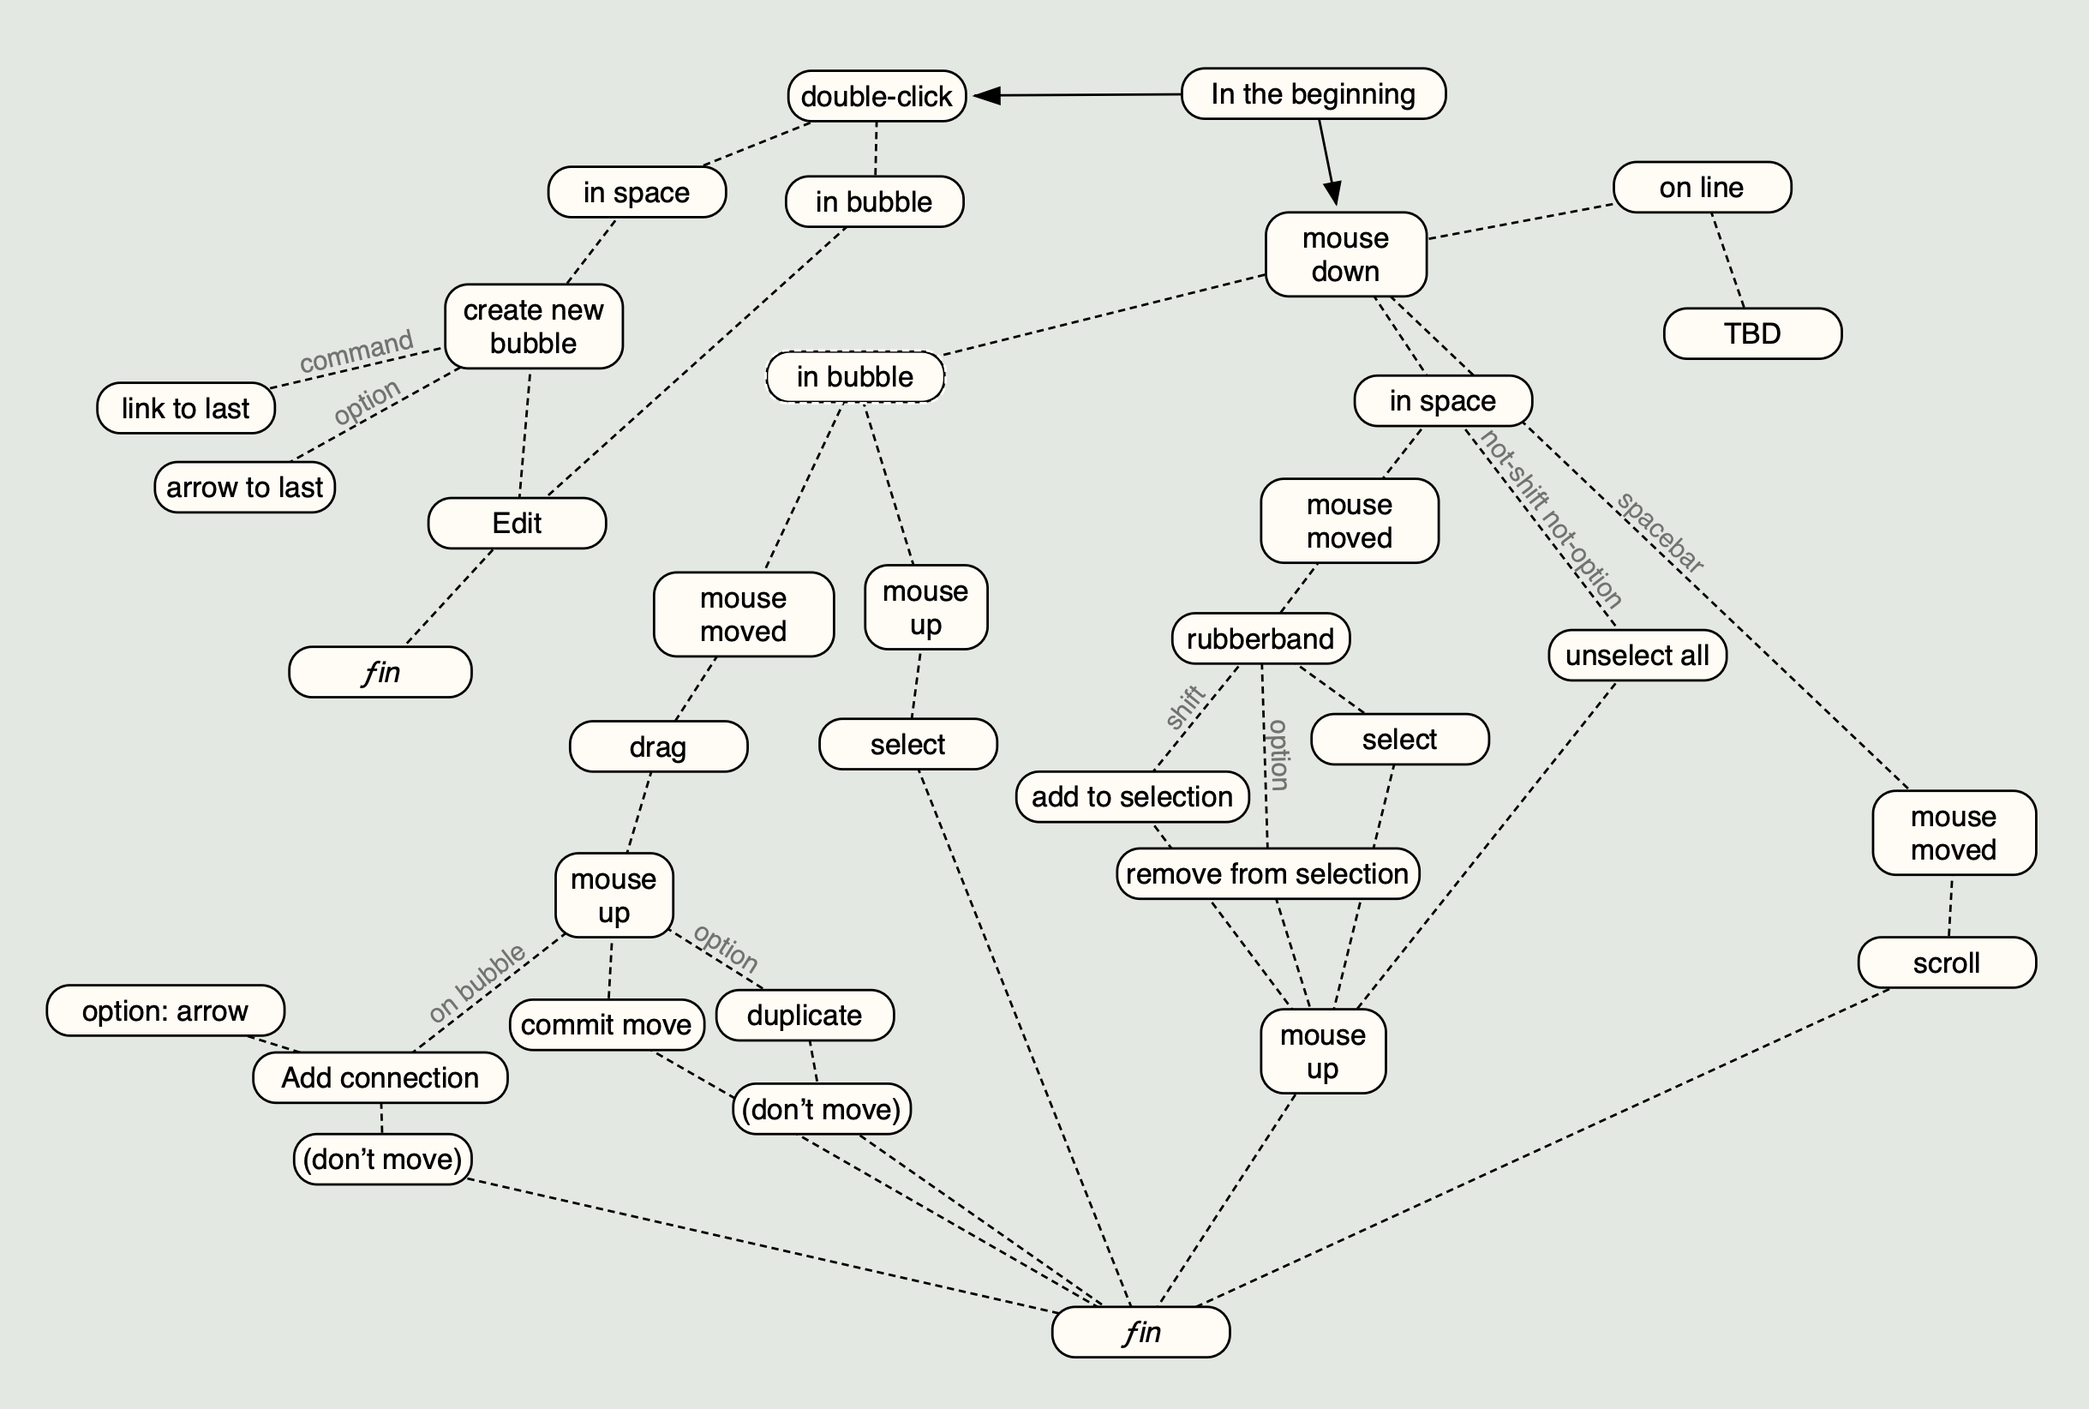
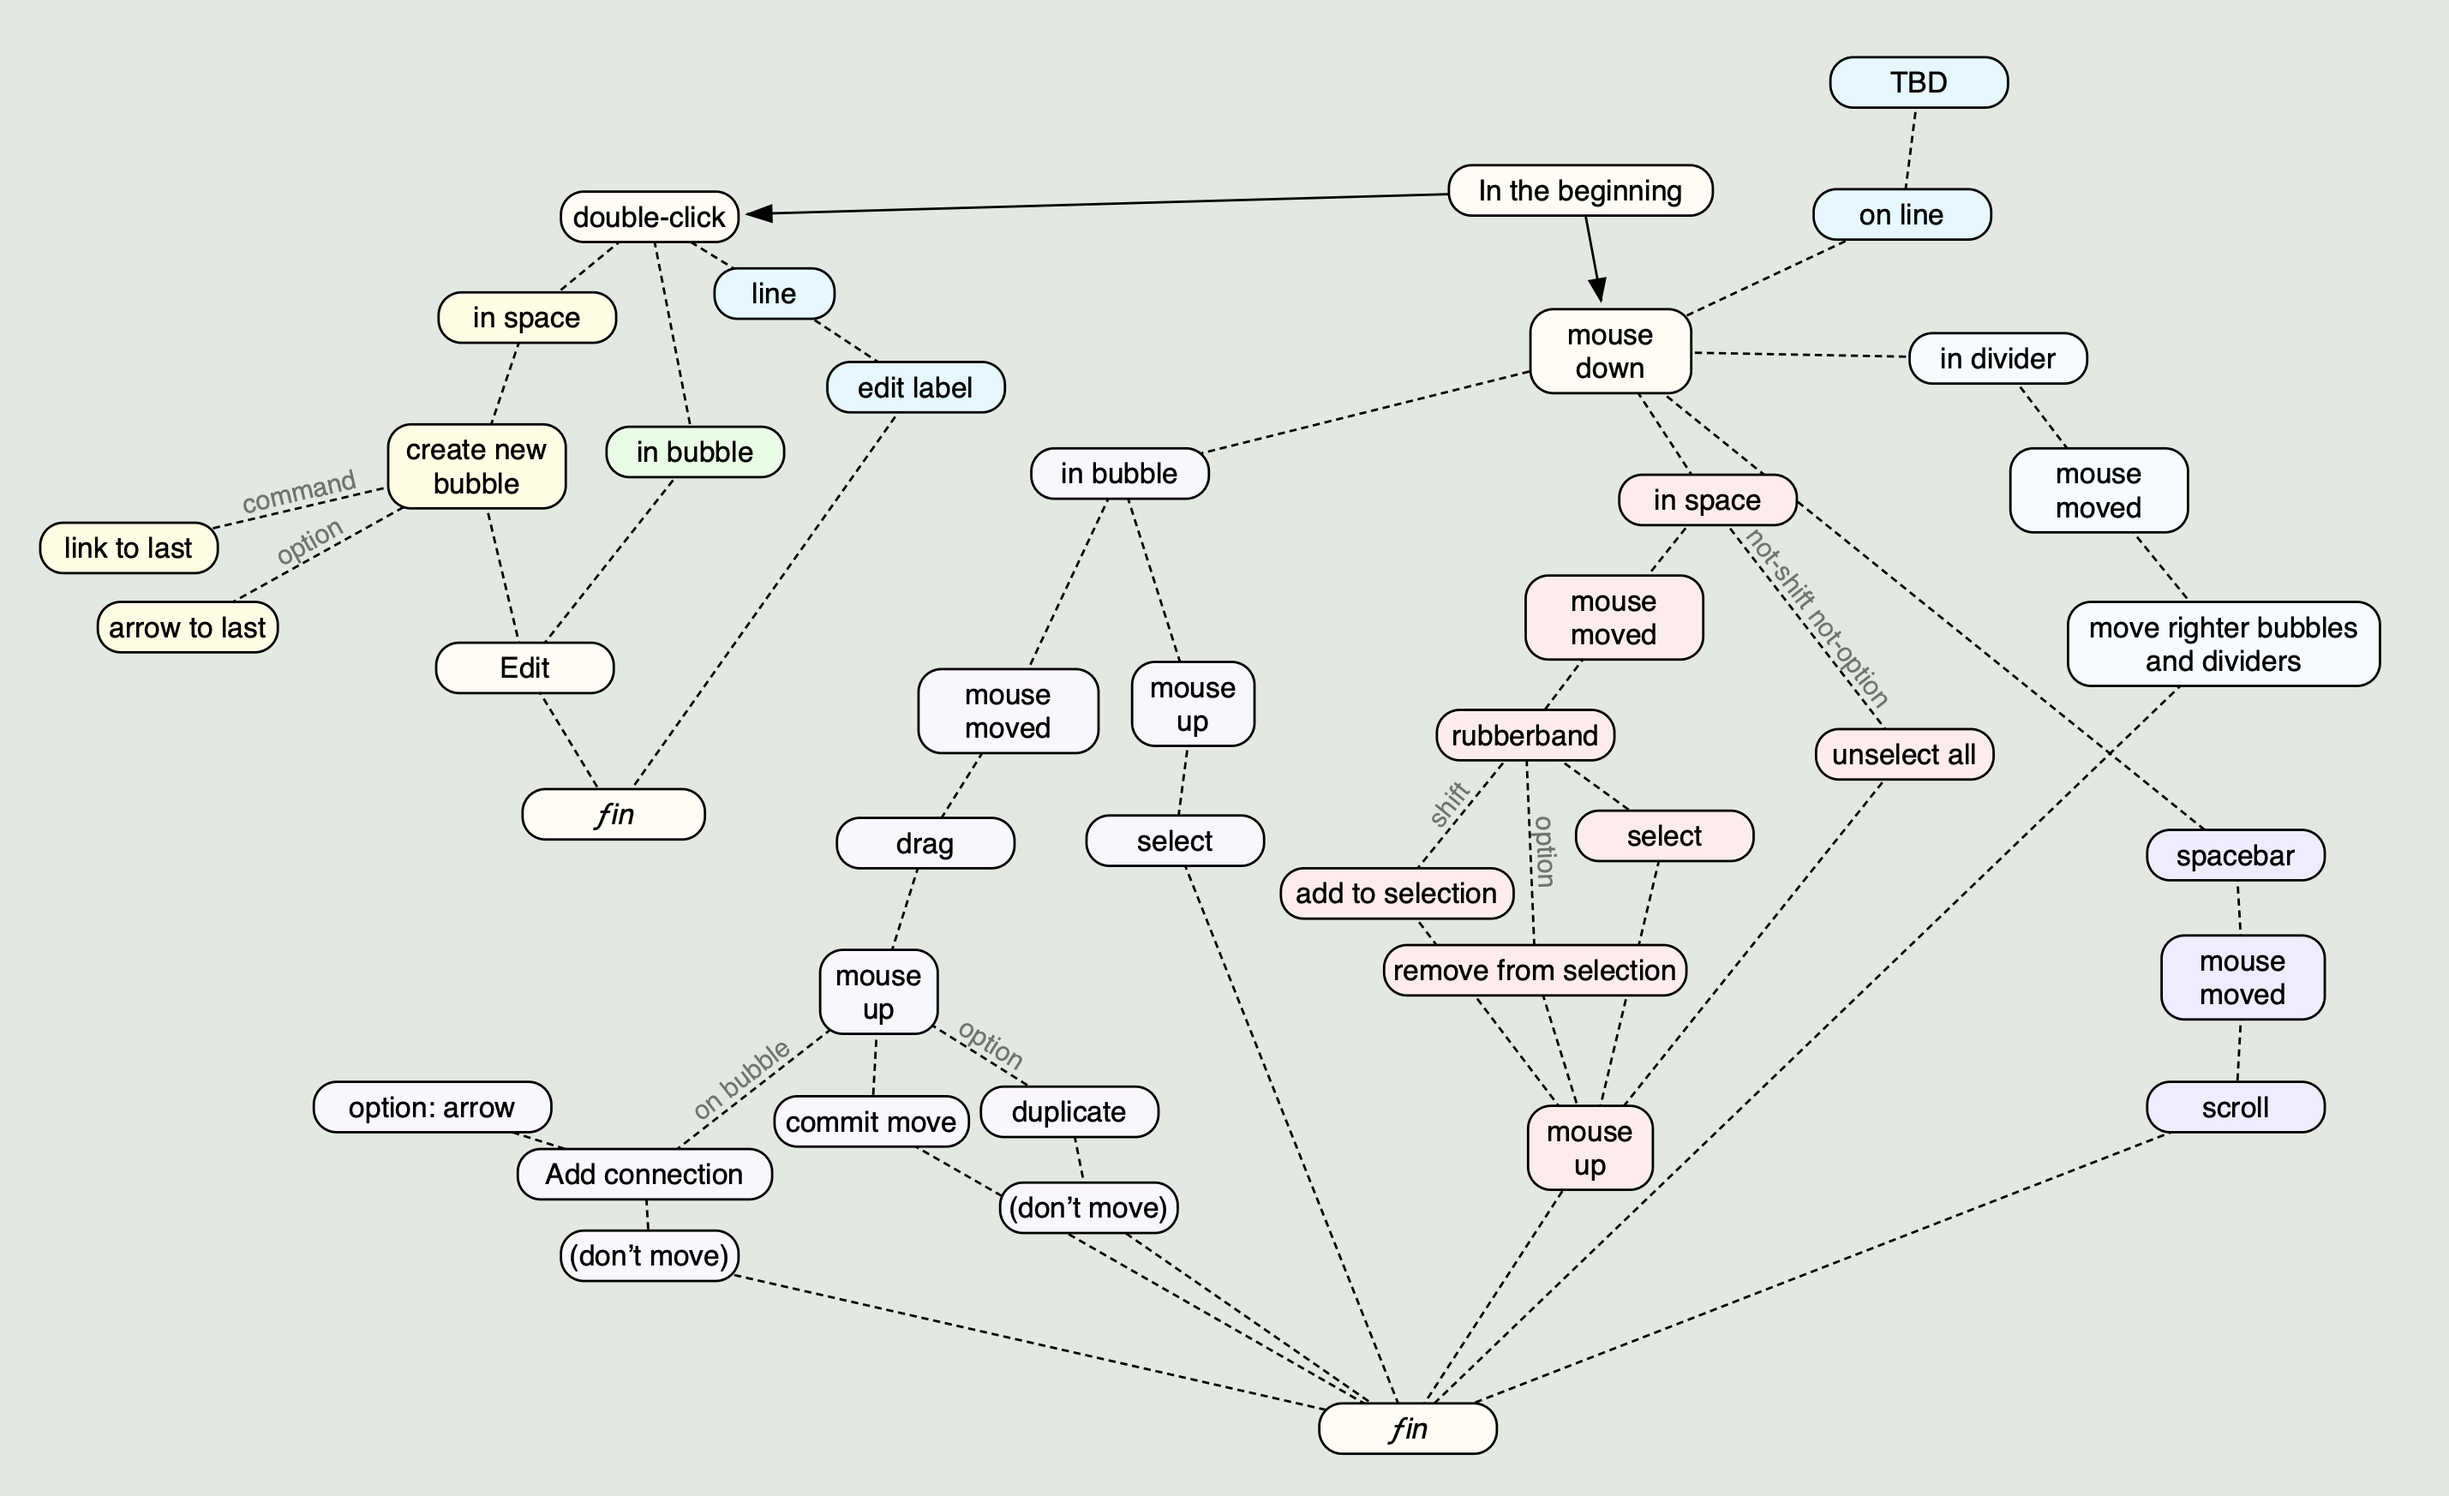
Added articulation points to mouse state machine. A bit more managable (or at least dividable)

diff --git a/worklog.md b/worklog.md
@@ -429,6 +429,7 @@ To set up the text system for the calculation, you need
   - a font for the string
   - a width for the area modeled by the text container.
 
+```
 float heightForStringDrawing(NSString *myString, NSFont *myFont, float *myWidth) {
     // First, you instantiate the needed text objects and hook them together.
     NSTextStorage *textStorage = [[[NSTextStorage alloc] initWithString:myString] autorelease];
@@ -607,6 +608,21 @@ next - save the soup instead of the bubble array.
 File -> Swift Packages -> etc
 
 extension on file wrapper to give it a string
+
+==================================================
+# Sunday September 20, 2020
+
+Still thinking about the complexities of mousifiication.
+
+c.f. mouse-state-machien - ![mouse-state-machien](docs/mouse-state-machien.png)
+
+urg yikes.
+
+The colored areas are articulation regions. So could have a 
+  "bubble mouse handler" and  "space mouse handler" and a "spce double click handler"
+
+
+
 
 
 
